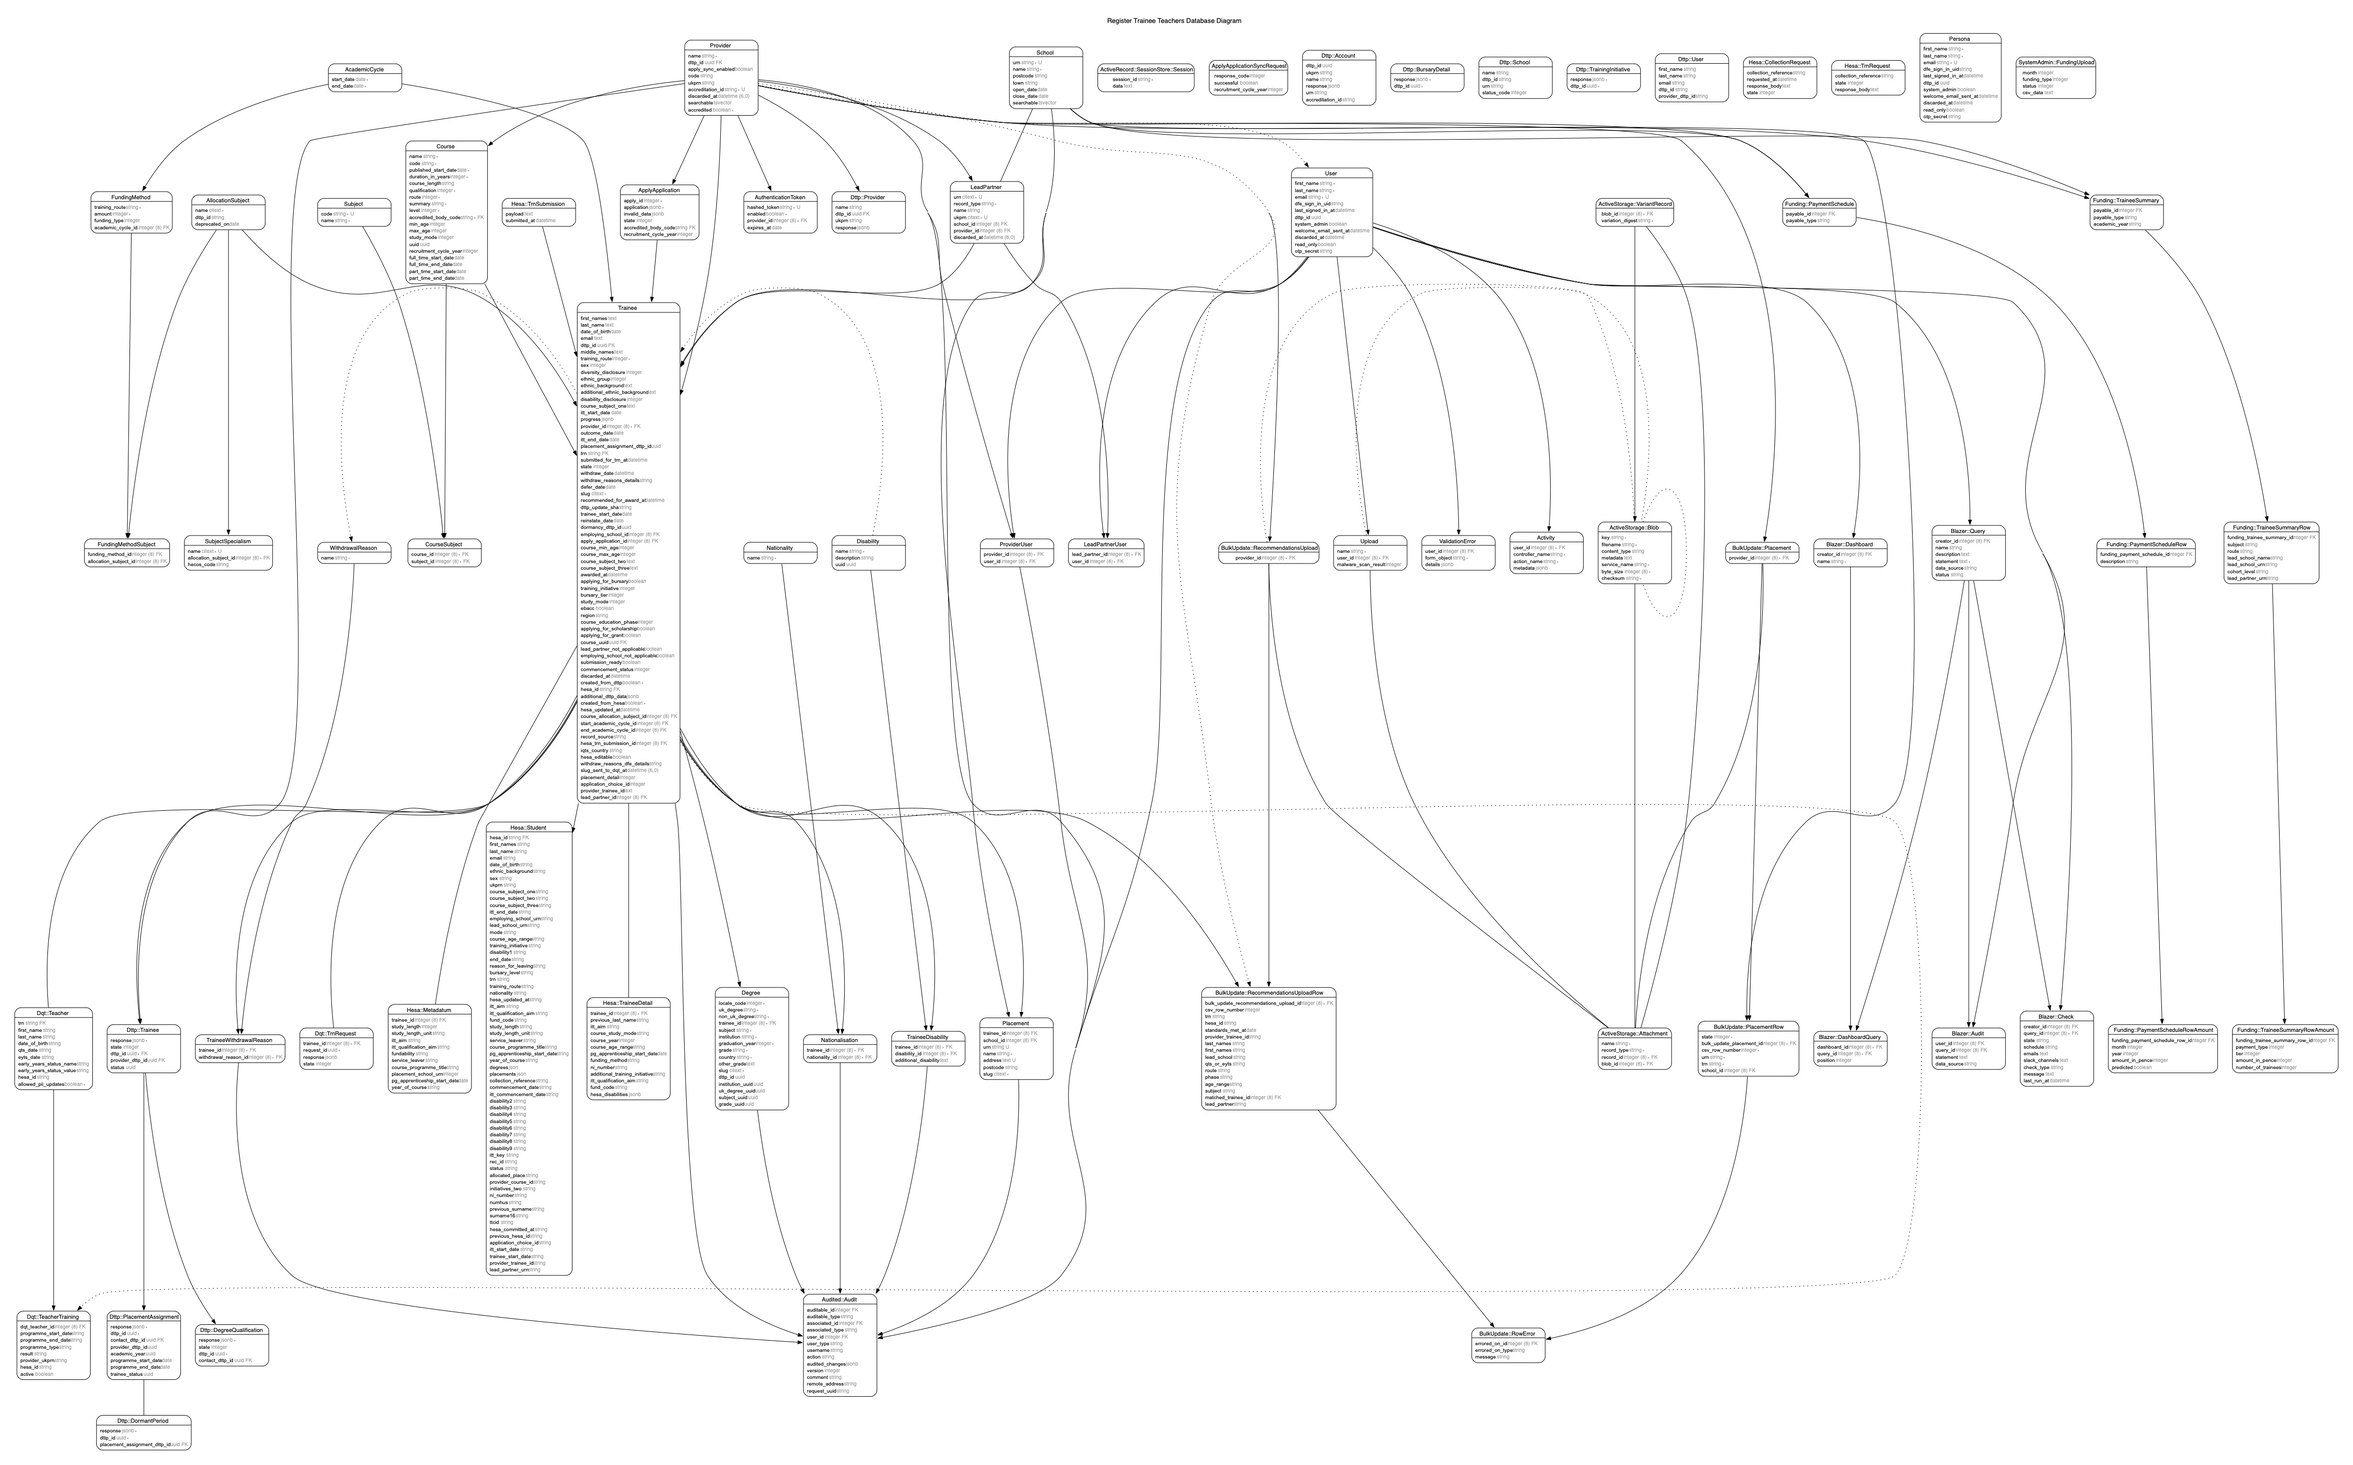
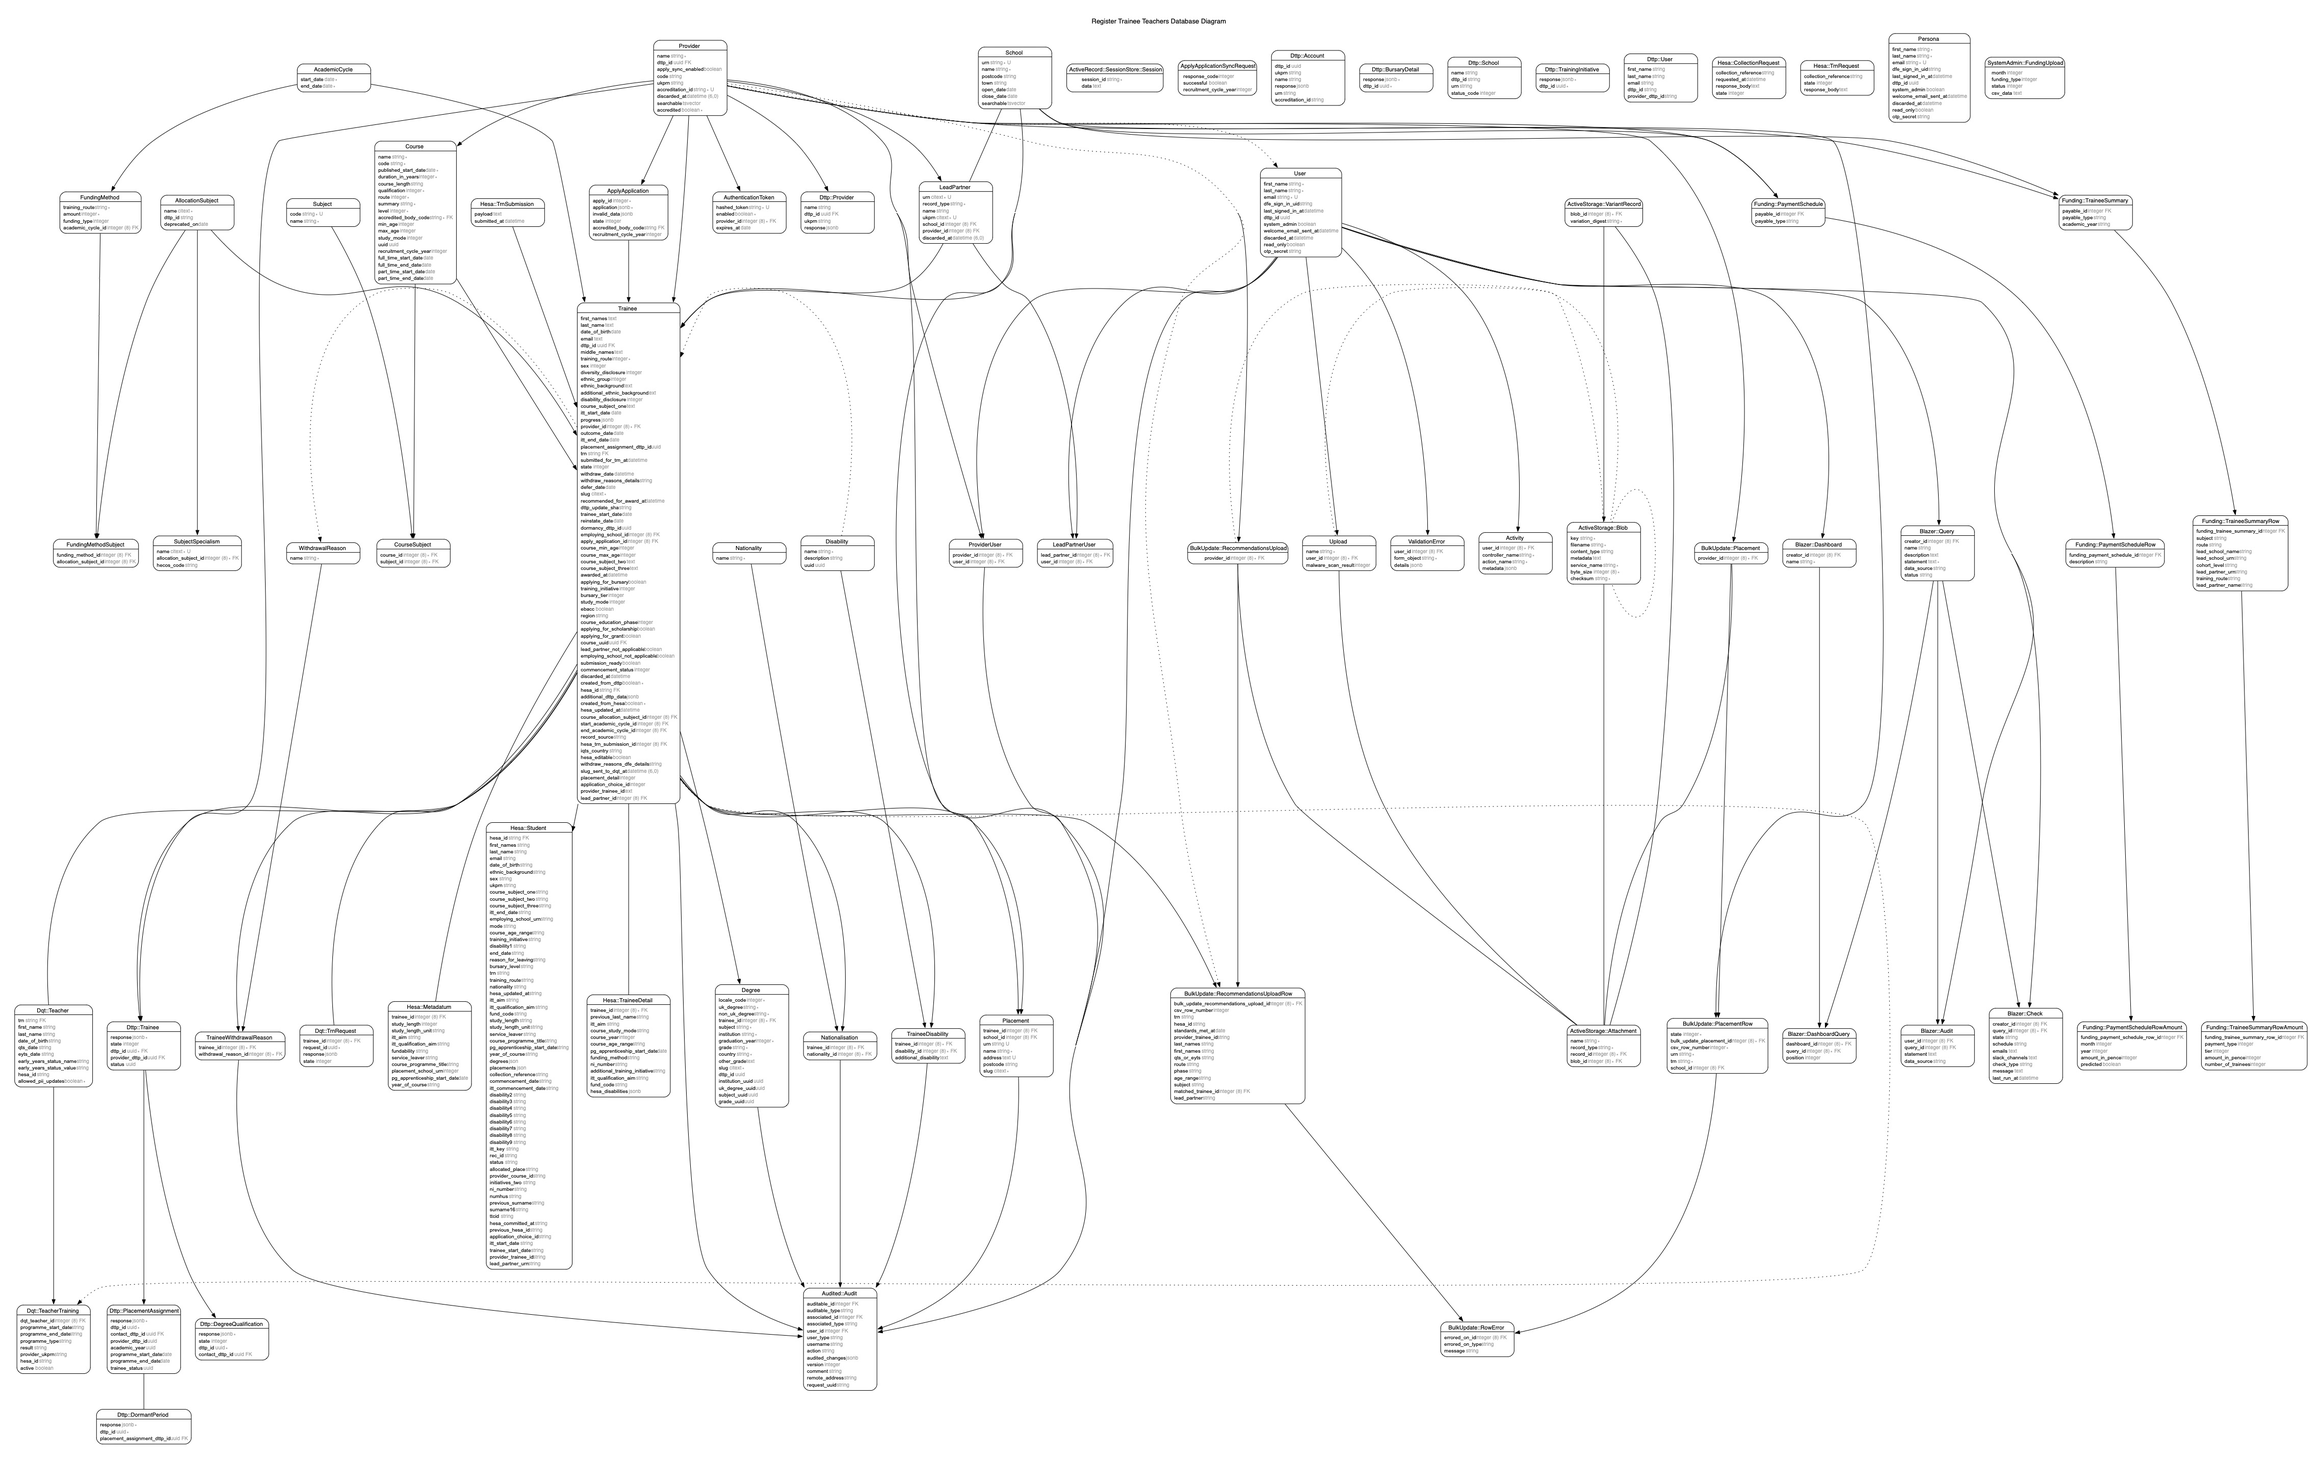
Lead School to Lead Partner - Episode VIII (#4642)
* Update school form and school detail view

* Fix edit_schools_spec

* Do not set lead_school attribute in school form

Going forward, we should be asking if a school is a lead partner instead.

* Rename lead_school_urn in ITTRecord

Changes the parser to refer to lead_school_urn as lead_partner_urn. This also updates the CreateFromHesa service and any related specs.

* Revert "Do not set lead_school attribute in school form"

This reverts commit 11159cee55bda29ffc86b11bb96e0144f6f34894.

* Remove lead_school column from School

* Fix service specs

* Fix broken form specs

* Fix view_preview spec

* Fix integration specs

* Fix placement_form_spec

* Fix example data

* Fix broken specs

* Remove lead_school from trainees

Instead, the trainee can now get to a school through the lead_partner. The school model has also been updated to have_many trainees through the lead_partner model.

* Keep the name lead_school for trainees for now

Just using school is ambiguous, since we also have an “employing_school” on trainee. This keeps the name lead_school for now, we can rename it later if needed.

* Fix trainee spec

* Fix find_empty_trainees service

* Fix create_from_csv_row_spec

* Rubocop

* Rename lead_school to lead_partner_school for trainees

* Fix trainee report spec

* Fix view previews

* Fix trainee report spec

* Fix broken specs

* Fix service specs

* Remove lead school id from trainee serializer

* Remove lead_school_id from create timeline events
[…]

diff --git a/spec/services/send_welcome_email_service_spec.rb b/spec/services/send_welcome_email_service_spec.rb
@@ -16,46 +16,13 @@ describe SendWelcomeEmailService do
   after { Timecop.return }
 
   context "when the user has not logged in before" do
-    context "lead school user" do
-      let(:user) do
-        spy(
-          first_name: "Meowington",
-          email: "meowington@cat.net",
-          welcome_email_sent_at: nil,
-          lead_schools: [build(:school)],
-        )
-      end
-
-      before do
-        allow(WelcomeEmailMailer).to receive_message_chain(:generate, :deliver_later)
-        described_class.call(user:)
-      end
-
-      it "sets their welcome email date to now" do
-        expect(user).to have_received(:update!).with(hash_including(welcome_email_sent_at: Time.zone.now))
-      end
-
-      it "sends the welcome email" do
-        expect(WelcomeEmailMailer).to have_received(:generate)
-      end
-
-      it "sends the email to the user" do
-        expect(WelcomeEmailMailer).to have_received(:generate).with(hash_including(email: "meowington@cat.net"))
-      end
-
-      it "sends the users first name in the email" do
-        expect(WelcomeEmailMailer).to have_received(:generate).with(hash_including(first_name: "Meowington"))
-      end
-    end
-
     context "lead partner user" do
       let(:user) do
         spy(
           first_name: "Meowington",
           email: "meowington@cat.net",
           welcome_email_sent_at: nil,
-          lead_schools: [],
-          lead_partners: [build(:lead_partner, :school)],
+          lead_partners: [build(:lead_partner)],
         )
       end
 
@@ -81,13 +48,12 @@ describe SendWelcomeEmailService do
       end
     end
 
-    context "not a lead school or lead partner user" do
+    context "not a lead partner user" do
       let(:user) do
         spy(
           first_name: "Meowington",
           email: "meowington@cat.net",
           welcome_email_sent_at: nil,
-          lead_schools: [],
           lead_partners: [],
         )
       end
@@ -102,12 +68,12 @@ describe SendWelcomeEmailService do
     end
   end
 
-  context "when a lead school user has logged in before" do
+  context "when a lead partner user has logged in before" do
     let(:user) do
       spy(
         first_name: "Meowington",
         welcome_email_sent_at: Time.zone.local(2021, 1, 1),
-        lead_schools: [build(:school)],
+        lead_partners: [build(:lead_partner)],
       )
     end
 
@@ -132,7 +98,6 @@ describe SendWelcomeEmailService do
       spy(
         first_name: "Meowington",
         welcome_email_sent_at: Time.zone.local(2021, 1, 1),
-        lead_schools: [],
         lead_partners: [build(:lead_partner, :school)],
       )
     end

diff --git a/spec/models/concerns/lead_school_migratable_spec.rb b/spec/models/concerns/lead_school_migratable_spec.rb
@@ -3,55 +3,55 @@
 require "rails_helper"
 
 describe LeadSchoolMigratable do
-  let(:row) { create(:bulk_update_recommendations_upload_row) }
+  let(:user) { create(:user) }
+  let(:trainee_summary) { create(:trainee_summary, payable: user.providers.first) }
+  let(:row) { create(:trainee_summary_row, trainee_summary:) }
 
-  context "when lead_partner is changed" do
+  context "when lead_partner_urn is changed" do
     before do
-      row.lead_partner = "Lead Partner"
+      row.lead_partner_urn = "Lead Partner"
       row.save
     end
 
     it "sets lead_school to the value of lead_partner" do
-      expect(row.lead_school).to eq("Lead Partner")
+      expect(row.lead_school_urn).to eq("Lead Partner")
     end
   end
 
   context "when lead_school is changed" do
     before do
-      row.lead_school = "Lead School"
+      row.lead_school_urn = "Lead School"
       row.save
     end
 
     it "sets lead_partner to the value of lead_school" do
-      expect(row.lead_partner).to eq("Lead School")
+      expect(row.lead_partner_urn).to eq("Lead School")
     end
   end
 
   context "when both lead_partner and lead_school are changed" do
     before do
-      row.lead_partner = "Lead Partner"
-      row.lead_school = "Lead School"
+      row.lead_partner_urn = "Lead Partner"
+      row.lead_school_urn = "Lead School"
       row.save
     end
 
-    it "sets lead_partner to the value of lead_school" do
-      expect(row.lead_partner).to eq("Lead School")
+    it "sets lead_partner_urn to the value of lead_school_urn" do
+      expect(row.lead_partner_urn).to eq("Lead School")
     end
 
-    it "keeps lead_school as originally set" do
-      expect(row.lead_school).to eq("Lead School")
+    it "keeps lead_school_urn as originally set" do
+      expect(row.lead_school_urn).to eq("Lead School")
     end
   end
 
   context "when neither lead_partner nor lead_school are changed" do
-    before { row.update(trn: "12345") }
-
     it "does not change lead_partner" do
-      expect(row.lead_partner).to be_nil
+      expect { row.update(route: "12345") }.not_to change { row.lead_partner_urn }
     end
 
     it "does not change lead_school" do
-      expect(row.lead_school).to be_nil
+      expect { row.update(route: "12345") }.not_to change { row.lead_school_urn }
     end
   end
 end

diff --git a/app/models/bulk_update/recommendations_upload_row.rb b/app/models/bulk_update/recommendations_upload_row.rb
@@ -10,7 +10,6 @@
 #  first_names                           :string
 #  last_names                            :string
 #  lead_partner                          :string
-#  lead_school                           :string
 #  phase                                 :string
 #  qts_or_eyts                           :string
 #  route                                 :string
@@ -35,10 +34,6 @@
 #  fk_rails_...  (matched_trainee_id => trainees.id)
 #
 class BulkUpdate::RecommendationsUploadRow < ApplicationRecord
-  include LeadSchoolMigratable
-
-  set_lead_columns :lead_school, :lead_partner
-
   belongs_to :recommendations_upload,
              class_name: "BulkUpdate::RecommendationsUpload",
              foreign_key: :bulk_update_recommendations_upload_id,
@@ -56,7 +51,7 @@ class BulkUpdate::RecommendationsUploadRow < ApplicationRecord
   end
 
   def all_parameters_blank?
-    %w[first_names last_names lead_school phase qts_or_eyts route standards_met_at subject trn hesa_id].all? { |attr| self[attr].blank? }
+    %w[first_names last_names lead_partner phase qts_or_eyts route standards_met_at subject trn hesa_id].all? { |attr| self[attr].blank? }
   end
 
   def qts?

diff --git a/spec/requests/api/v0_1/post_hesa_trainees_spec.rb b/spec/requests/api/v0_1/post_hesa_trainees_spec.rb
@@ -204,7 +204,6 @@ describe "`POST /api/v0.1/trainees` endpoint" do
           end
 
           it "sets lead_partner_urn and employing_school_urn to nil" do
-            expect(response.parsed_body[:data]).not_to have_key(:lead_school_urn)
             expect(response.parsed_body[:data]).to have_key(:lead_partner_urn)
             expect(response.parsed_body[:data][:lead_partner_urn]).to be_nil
             expect(response.parsed_body[:data][:employing_school_urn]).to be_nil
@@ -229,7 +228,6 @@ describe "`POST /api/v0.1/trainees` endpoint" do
             let(:lead_partner) { create(:lead_partner, :school) }
 
             it "sets lead_partner_urn to lead_partner#urn and employing_school_urn to nil" do
-              expect(response.parsed_body[:data]).not_to have_key(:lead_school_urn)
               expect(response.parsed_body[:data][:lead_partner_urn]).to eq(lead_partner.urn)
               expect(response.parsed_body[:data][:employing_school_urn]).to be_nil
             end

diff --git a/db/schema.rb b/db/schema.rb
@@ -10,7 +10,7 @@
 #
 # It's strongly recommended that you check this file into your version control system.
 
-ActiveRecord::Schema[7.2].define(version: 2024_09_06_090304) do
+ActiveRecord::Schema[7.2].define(version: 2024_09_12_140127) do
   # These are extensions that must be enabled in order to support this database
   enable_extension "btree_gist"
   enable_extension "citext"
@@ -218,7 +218,6 @@ ActiveRecord::Schema[7.2].define(version: 2024_09_06_090304) do
     t.string "provider_trainee_id"
     t.string "last_names"
     t.string "first_names"
-    t.string "lead_school"
     t.string "qts_or_eyts"
     t.string "route"
     t.string "phase"
@@ -601,7 +600,6 @@ ActiveRecord::Schema[7.2].define(version: 2024_09_06_090304) do
     t.string "course_subject_three"
     t.string "itt_end_date"
     t.string "employing_school_urn"
-    t.string "lead_school_urn"
     t.string "mode"
     t.string "course_age_range"
     t.string "training_initiative"

diff --git a/spec/features/form_sections/teacher_training_data/non_js_employing_school_search_spec.rb b/spec/features/form_sections/teacher_training_data/non_js_employing_school_search_spec.rb
@@ -13,7 +13,7 @@ feature "Non-JS employing schools search" do
   scenario "choosing a lead school" do
     and_i_choose_my_employing_school
     and_i_continue
-    then_i_am_redirected_to_the_confirm_lead_school_page
+    then_i_am_redirected_to_the_confirm_schools_page
   end
 
   scenario "choosing search again option" do
@@ -58,7 +58,7 @@ private
     employing_schools_search_page.load(trainee_id: trainee.slug, query: query)
   end
 
-  def then_i_am_redirected_to_the_confirm_lead_school_page
+  def then_i_am_redirected_to_the_confirm_schools_page
     expect(confirm_schools_page).to be_displayed(id: trainee.slug)
   end
 

diff --git a/spec/features/form_sections/teacher_training_data/employing_school_search_spec.rb b/spec/features/form_sections/teacher_training_data/employing_school_search_spec.rb
@@ -22,7 +22,7 @@ feature "EmployingSchoolSearch" do
       and_i_fill_in_my_employing_school
       and_i_click_the_first_item_in_the_list
       and_i_continue
-      then_i_am_redirected_to_the_confirm_lead_school_page
+      then_i_am_redirected_to_the_confirm_schools_page
     end
 
     scenario "when a employing school is not selected" do
@@ -70,7 +70,7 @@ private
     @my_employing_school ||= @employing_schools.sample
   end
 
-  def then_i_am_redirected_to_the_confirm_lead_school_page
+  def then_i_am_redirected_to_the_confirm_schools_page
     expect(confirm_schools_page).to be_displayed(id: trainee.slug)
   end
 

diff --git a/app/models/hesa/student.rb b/app/models/hesa/student.rb
@@ -42,7 +42,6 @@
 #  itt_start_date               :string
 #  last_name                    :string
 #  lead_partner_urn             :string
-#  lead_school_urn              :string
 #  mode                         :string
 #  nationality                  :string
 #  ni_number                    :string
@@ -79,10 +78,6 @@
 #
 module Hesa
   class Student < ApplicationRecord
-    include LeadSchoolMigratable
-
-    set_lead_columns :lead_school_urn, :lead_partner_urn
-
     self.table_name = "hesa_students"
     self.ignored_columns += %w[student_instance_id]
 

diff --git a/app/services/form_store.rb b/app/services/form_store.rb
@@ -3,7 +3,6 @@
 class FormStore
   include Cacheable
 
-  # Will need to remove lead_school when lead_partner transfer is complete
   FORM_SECTION_KEYS = %i[
     contact_details
     publish_course_details
@@ -27,7 +26,6 @@ class FormStore
     disability_detail
     diversity
     degrees
-    lead_school
     employing_school
     lead_partner
     schools

diff --git a/spec/services/bulk_update/recommendations_uploads/validate_csv_row_spec.rb b/spec/services/bulk_update/recommendations_uploads/validate_csv_row_spec.rb
@@ -189,8 +189,6 @@ module BulkUpdate
           let!(:trainee) { create(:trainee, :early_years_assessment_only) }
 
           context "doesn't match" do
-            let(:report_lead_school) { "QTS" }
-
             it "errors" do
               expect(service.messages).to include(award_type_error)
             end

diff --git a/db/migrate/20240912140127_drop_lead_school_from_recommendations_upload_rows.rb b/db/migrate/20240912140127_drop_lead_school_from_recommendations_upload_rows.rb
@@ -1,0 +1,7 @@
+# frozen_string_literal: true
+
+class DropLeadSchoolFromRecommendationsUploadRows < ActiveRecord::Migration[7.2]
+  def change
+    safety_assured { remove_column :bulk_update_recommendations_upload_rows, :lead_school, :string }
+  end
+end

diff --git a/db/migrate/20240912135058_drop_lead_school_urn_from_hesa_student.rb b/db/migrate/20240912135058_drop_lead_school_urn_from_hesa_student.rb
@@ -1,0 +1,7 @@
+# frozen_string_literal: true
+
+class DropLeadSchoolUrnFromHesaStudent < ActiveRecord::Migration[7.2]
+  def change
+    safety_assured { remove_column :hesa_students, :lead_school_urn, :string }
+  end
+end
